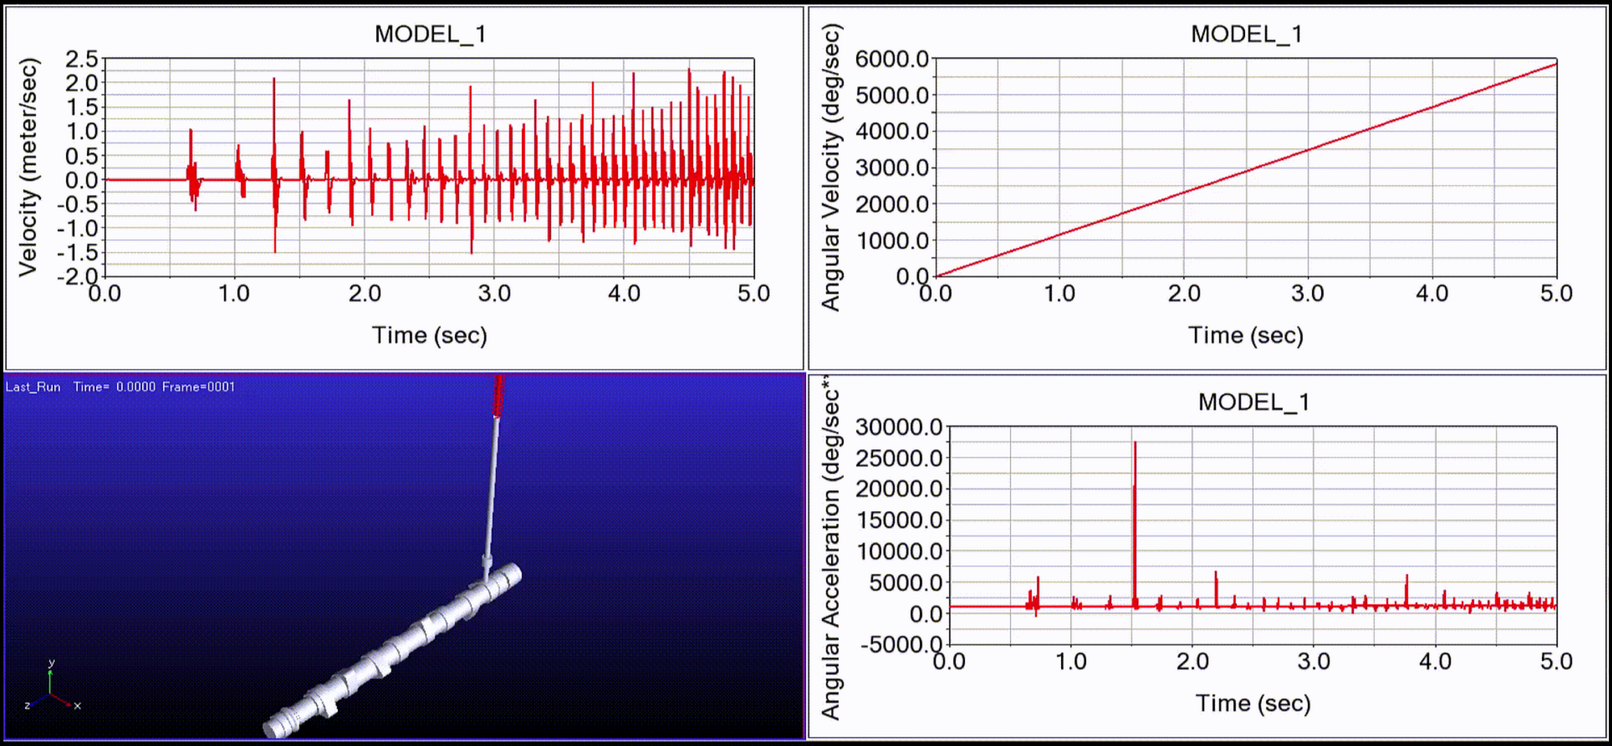
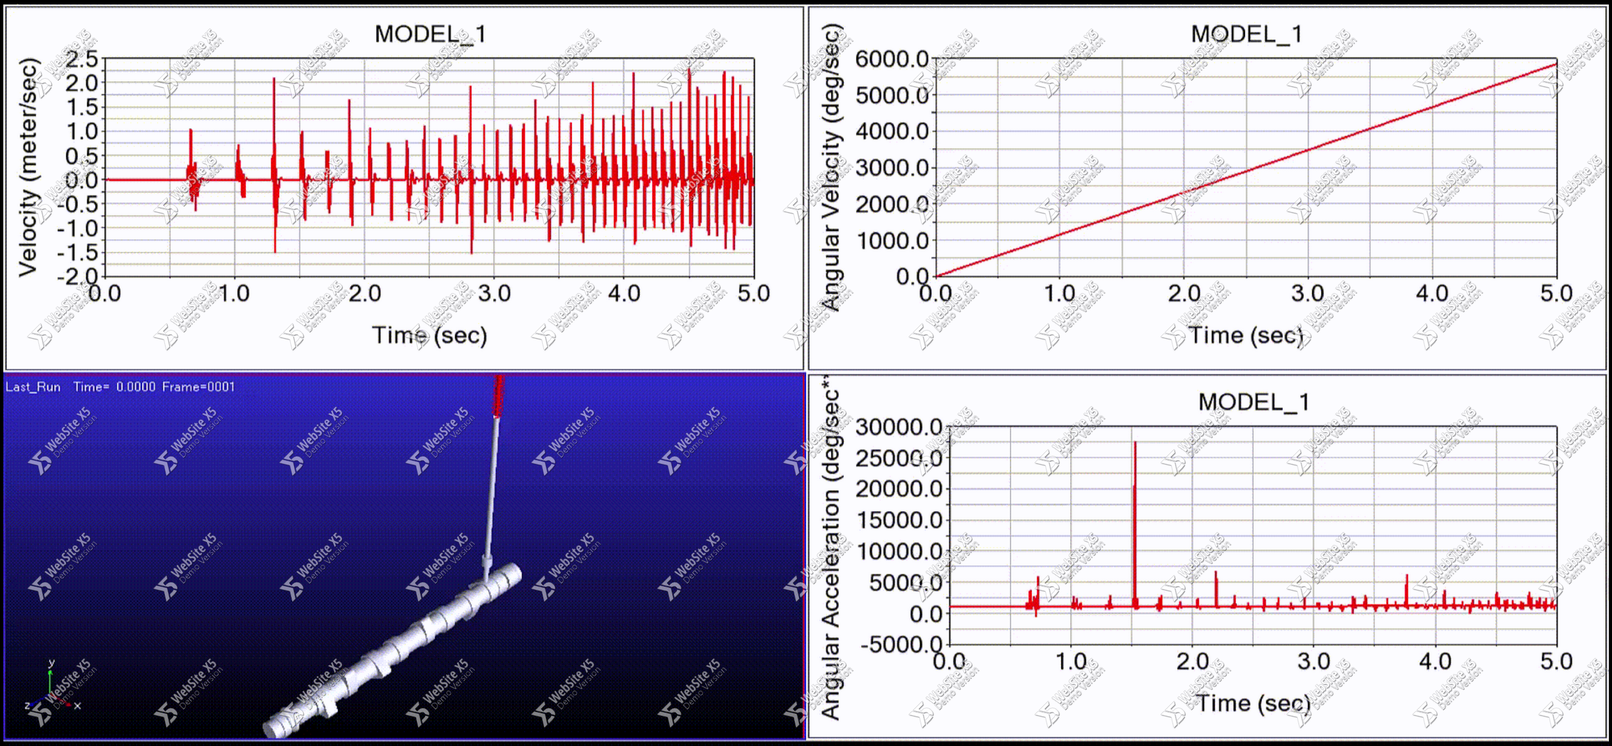
Version 3.4.1

diff --git a/index.html b/index.html
@@ -1,11 +1,11 @@
 <!DOCTYPE html><!-- HTML5 -->
 <html prefix="og: http://ogp.me/ns#" lang="en-GB" dir="ltr">
 	<head>
-		<title>Yassin Riyazi</title>
+		<title>Yassin Riyazi - WEBSITE X5 DEMO VERSION </title>
 		<meta charset="utf-8" />
 		<!--[if IE]><meta http-equiv="ImageToolbar" content="False" /><![endif]-->
 		<meta name="author" content="Yassin Riyazi" />
-		<meta name="generator" content="Incomedia WebSite X5 Professional 17.1.2 - www.websitex5.com" />
+		<meta name="generator" content="Incomedia WebSite X5 Professional 17.1.2 - UNREGISTERED VERSION - www.websitex5.com" />
 		<meta name="description" content="&lt;br /&gt;**Welcome to yRiyazi&#39;s World of Mechanical Engineering and Innovation**&lt;br /&gt;&lt;br /&gt;&lt;br /&gt;Greetings! I am Yassin Riayzi the first, a passionate mechanical engineer dedicated to pushing the boundaries of innovation and design. This website serves as a gateway to my world of interests and the projects that have captivated my attention and expertise.&lt;br /&gt;&lt;br /&gt;&lt;br /&gt;&lt;br /&gt;**Exploring the Intersection of Engineering and Creativity**&lt;br /&gt;&lt;br /&gt;&lt;br /&gt;Within these virtual walls, you&#39;ll find a curated selection of projects that showcase my journey through the realms of mechanical engineering. From precision machinery to groundbreaking prototypes, each endeavor represents a fusion of technical prowess and creative vision.&lt;br /&gt;&lt;br /&gt;&lt;br /&gt;**Unveiling My Mechanical Marvels**&lt;br /&gt;&lt;br /&gt;&lt;br /&gt;Dive into a collection of meticulously documented projects, each a testament to my dedication and ingenuity. Whether it&#39;s a cutting-edge automation system or an elegant piece of machinery, I invite you to explore the intricacies of my work, from concept to execution.&lt;br /&gt;&lt;br /&gt;&lt;br /&gt;&lt;br /&gt;**A Glimpse into My World Beyond Engineering**&lt;br /&gt;&lt;br /&gt;&lt;br /&gt;While my heart beats for mechanical marvels, this website also offers a window into my broader interests. From art and design to the latest technological trends, you&#39;ll find a medley of topics that fuel my curiosity and inspire my work.&lt;br /&gt;&lt;br /&gt;&lt;br /&gt;&lt;br /&gt;**Join Me on This Journey of Innovation**&lt;br /&gt;&lt;br /&gt;&lt;br /&gt;I invite you to embark on a journey through the fascinating world of mechanical engineering, where imagination meets precision. Feel free to reach out with questions, collaborations, or simply to share your thoughts.&lt;br /&gt;&lt;br /&gt;Thank you for visiting, and I look forward to sharing my passion with you!&lt;br /&gt;&lt;br /&gt;" />
 		<meta property="og:locale" content="en" />
 		<meta property="og:type" content="website" />
@@ -22,7 +22,7 @@
 		
 		
 		<link rel="stylesheet" href="pluginAppObj/imStickyBar_pluginAppObj_07/custom.css" media="screen, print" />
-		<link rel="stylesheet" href="pcss/index.css?17-1-2-0-638388897924035755" media="screen,print" />
+		<link rel="stylesheet" href="pcss/index.css?17-1-2-0-638388900411676286" media="screen,print" />
 		<script src="res/jquery.js?17-1-2-0"></script>
 		<script src="res/x5engine.js?17-1-2-0" data-files-version="17-1-2-0"></script>
 		<script src="pluginAppObj/imHeader_pluginAppObj_03/main.js"></script>
@@ -34,7 +34,7 @@
 			x5engine.utils.currentPagePath = 'index.html';
 			x5engine.boot.push(function () { x5engine.imPageToTop.initializeButton({}); });
 		</script>
-		<link rel="icon" href="favicon.ico?17-1-2-0-638388897920109389" type="image/vnd.microsoft.icon" />
+		<link rel="icon" href="favicon.ico?17-1-2-0-638388900405710278" type="image/vnd.microsoft.icon" />
 		<script>(function(i,s,o,g,r,a,m){i['GoogleAnalyticsObject']=r;i[r]=i[r]||function(){(i[r].q=i[r].q||[]).push(arguments)},i[r].l=1*new Date();a=s.createElement(o),m=s.getElementsByTagName(o)[0];a.async=1;a.src=g;m.parentNode.insertBefore(a,m)})(window,document,'script','//www.google-analytics.com/analytics.js','ga');ga('create', 'MDEY3JG7WE ','auto');ga('send', 'pageview');</script>
 	</head>
 	<body>
@@ -44,7 +44,7 @@
 				<div id="imFooterBg"></div>
 				<div id="imPage">
 					<header id="imHeader">
-						<h1 class="imHidden">Yassin Riyazi</h1>
+						<h1 class="imHidden">Yassin Riyazi - WEBSITE X5 DEMO VERSION </h1>
 						<div id="imHeaderObjects"><div id="imHeader_pluginAppObj_03_wrapper" class="template-object-wrapper"><div id="imHeader_pluginAppObj_03">
             <div id="soc_imHeader_pluginAppObj_03">
                 <div class="wrapper horizontal original grow">
@@ -130,7 +130,7 @@ $(function () {$('#imStickyBar_imMenuObject_03_container ul li').not('.imMnMnSep
 						<div id="imCell_4" class=""  data-responsive-sequence-number="1"> <div id="imCellStyleGraphics_4"></div><div id="imCellStyleBorders_4"></div><div id="imTextObject_04">
 							<div data-index="0"  class="text-tab-content grid-prop current-tab "  id="imTextObject_04_tab0" style="opacity: 1; ">
 								<div class="text-inner">
-									<div class="imHeading2">About My self</div><div class="imTAJustify"><span class="fs14lh1-5 ff1">I Yassin Riyazi As a <b>Mechanical engineer</b> with a passion for <b>robotics and artificial &nbsp;intelligence</b>, &nbsp;I thrive on designing innovative solutions that bridge the &nbsp;gap between &nbsp;cutting-edge technology and mechanical systems. My &nbsp;expertise lies in &nbsp;leveraging AI-driven automation to enhance robotics &nbsp;applications, &nbsp;creating efficient and intelligent machines that drive &nbsp;progress in &nbsp;diverse industries.</span></div><div class="imHeading3">Research Interest:</div>
+									<div class="imHeading2">About My self</div><div class="imTAJustify"><span class="fs14lh1-5 ff1">I Yassin Riyazi As a <b>Mechanical engineer</b> with a passion for <b>robotics and artificial &nb WebSite X5 Dem</b>o Version thrive on designing innovative solutions that bridge the &nbsp;gap between &nbsp;cutting-edg WebSite X5 Demo Version al systems. My &nbsp;expertise lies in &nbsp;leveraging AI-driven automation to enhan WebSite X5 Demo Version tions, &nbsp;creating efficient and intelligent machines that drive &nbsp;progr WebSite X5 Demo Version stries.</span></div><div class="imHeading3">Research Interest:</div>
 								</div>
 							</div>
 						
@@ -138,7 +138,7 @@ $(function () {$('#imStickyBar_imMenuObject_03_container ul li').not('.imMnMnSep
 						</div><div id="imCell_8" class=""  data-responsive-sequence-number="2"> <div id="imCellStyleGraphics_8"></div><div id="imCellStyleBorders_8"></div><div id="imTableObject_08">
 							<div data-index="0"  class="text-tab-content grid-prop current-tab "  id="imTableObject_08_tab0" style="opacity: 1; ">
 								<div class="text-inner">
-									<table data-minrequestedwidth="518" data-computedwidth="518" style="width: 518px;"><tbody><tr><td style="width: 227px; height: 38px; margin-top: 0px; margin-left: 0px;" class="imVc"><ul><li><span class="fs14lh1-5 ff1">Deep-Neural Networks</span></li></ul></td><td style="width: 276px; height: 38px; margin-top: 0px; margin-left: 0px;" class="imVc"><div><ul><li><span class="fs14lh1-5 ff1">Adaptive Control</span></li></ul></div></td></tr><tr><td style="height: 33px; width: 227px;" class="imVc"><div><ul><li><span class="fs14lh1-5 ff1">Data-driven methods</span></li></ul></div></td><td style="width: 276px; height: 33px; margin-top: 0px; margin-left: 0px;" class="imVc"><div><ul><li><span class="fs14lh1-5 ff1">Robotics</span></li></ul></div></td></tr><tr><td style="height: 35px; width: 227px;" class="imVc"><div><ul><li><span class="fs14lh1-5 ff1">Nonlinear Vibration</span></li></ul></div></td><td style="width: 276px; height: 35px; margin-top: 0px; margin-left: 0px;" class="imVc"><ul><li><span class="fs14lh1-5">Reinforcement </span>learning</li></ul></td></tr></tbody></table>
+									<table data-minrequestedwidth="518" data-computedwidth="518" style="width: 518px;"><tbody><tr><td style="width: 227px; height: 38px; margin-top: 0px; margin-left: 0px;" class="imVc"><ul><li><span class="fs14lh1-5 ff1">Deep-Neural Networks</span></li></ul></td><td style="width: 276px; height: 38px; margin-top: 0px; margin-left: 0px;" class="imVc"><div><ul><li><span class="fs14lh1-5 ff1">Adaptive Control</span></li></ul></div></td></tr><tr><td style="height: 33px; width: 227px;" class="imVc"><div><ul><li><span class="fs14lh1-5 ff1">Data-driven methods</span></li></ul></div></td><td style="width: 276px; height: 33px; margin-top: 0px; margin-left: 0px;" class="imVc"><div><ul><li><span class="fs14lh1-5 ff1">Robotics</span></li></ul></div></td></tr><tr><td style="height: 35px; width: 227px;" class="imVc"><div><ul><li><span class="fs14lh1-5 ff1">Nonlinear Vibrat We</span></li></ul></div></td><td style="width: 276px; height: 35px; margin-top: 0px; margin-left: 0px;" class="imVc"><ul><li><span class="fs14lh1-5">bSite X5 Demo </span>Version </li></ul></td></tr></tbody></table>
 								</div>
 							</div>
 						
@@ -167,7 +167,7 @@ $(function () {$('#imStickyBar_imMenuObject_03_container ul li').not('.imMnMnSep
 						<div id="imCell_12" class=""  data-responsive-sequence-number="5"> <div id="imCellStyleGraphics_12"></div><div id="imCellStyleBorders_12"></div><div id="imTextObject_12">
 							<div data-index="0"  class="text-tab-content grid-prop current-tab "  id="imTextObject_12_tab0" style="opacity: 1; ">
 								<div class="text-inner">
-									<div class="imHeading2"> &nbsp;&nbsp;&nbsp;&nbsp;&nbsp;&nbsp;Enhancing Duffing Oscillator Analysis: Koopman Operator and Deep Neural Networks for Parameter Estimation, Future Prediction, and Bifurcation Capture under Varying Frequency Excitation.</div><div><span class="fs14lh1-5 ff1"> Y.Riyazi, and <a href="https://me.ut.ac.ir/en/~arash.bahrami" target="_blank" class="imCssLink">A.Bahrami</a>* </span><span class="fs14lh1-5 ff1">{In preparation}</span></div><div class="imTARight"><span class="fs14lh1-5 ff1">[Abs] [Slides] [Code] &nbsp;&nbsp;&nbsp;&nbsp;&nbsp;&nbsp;</span></div>
+									<div class="imHeading2"> &nbsp;&nbsp;&nbsp;&nbsp;&nbsp;&nbsp;Enhancing Duffing Oscillator Analysis: Koopman Operator and Dee WebSite X5 Demo Version ameter Estimation, Future Prediction, and Bifurcation Capture under Varying Frequency Excit WebSi</div><div><span class="fs14lh1-5 ff1">te X5 Demo Vers<a href="https://me.ut.ac.ir/en/~arash.bahrami" target="_blank" class="imCssLink">ion hrami</a>* </span><span class="fs14lh1-5 ff1">{In preparation}</span></div><div class="imTARight"><span class="fs14lh1-5 ff1">[Abs] [Slides] [Code] &nbsp;&nbsp;&nbsp;&nbsp;&nbsp;&nbsp;</span></div>
 								</div>
 							</div>
 						
@@ -178,7 +178,7 @@ $(function () {$('#imStickyBar_imMenuObject_03_container ul li').not('.imMnMnSep
 						<div id="imCell_9" class=""  data-responsive-sequence-number="6"> <div id="imCellStyleGraphics_9"></div><div id="imCellStyleBorders_9"></div><div id="imTextObject_09">
 							<div data-index="0"  class="text-tab-content grid-prop current-tab "  id="imTextObject_09_tab0" style="opacity: 1; ">
 								<div class="text-inner">
-									<div class="imHeading2"> &nbsp;&nbsp;&nbsp;&nbsp;&nbsp;&nbsp;Leveraging Koopman operator and Deep Neural Networks for Parameter Estimation and Future Prediction of Cable soft robot</div><br><div><span class="fs14lh1-5 ff1">S.Abbasi, Y.Riyazi, G.Vossoughi*, and A.Bahrami* {In preparation }<br></span></div><div><div class="imTARight"><span class="fs14lh1-5 ff1">[Abs] [Slides] [</span><span class="fs14lh1-5 ff1">Code</span><span class="fs14lh1-5 ff1">]</span><span class="fs14lh1-5 ff1"> </span><span class="fs14lh1-5 ff1"> &nbsp;&nbsp;&nbsp;&nbsp;</span></div></div>
+									<div class="imHeading2"> &nbsp;&nbsp;&nbsp;&nbsp;&nbsp;&nbsp;Leveraging Koopman operator and Deep Neural Networks for Parame WebSite X5 Demo Version  Prediction of Cable soft robot</div><br><div><span class="fs14lh1-5 ff1">S.Abbasi, Y.Riyazi, G.Vossoughi*, and A.Bahrami* {In prepara WebSi<br></span></div><div><div class="imTARight"><span class="fs14lh1-5 ff1">te X5 Demo Versi</span><span class="fs14lh1-5 ff1">on e</span><span class="fs14lh1-5 ff1">]</span><span class="fs14lh1-5 ff1"> </span><span class="fs14lh1-5 ff1"> &nbsp;&nbsp;&nbsp;&nbsp;</span></div></div>
 								</div>
 							</div>
 						
@@ -208,7 +208,7 @@ $(function () {$('#imStickyBar_imMenuObject_03_container ul li').not('.imMnMnSep
 						<div id="imCell_10" class=""  data-responsive-sequence-number="9"> <div id="imCellStyleGraphics_10"></div><div id="imCellStyleBorders_10"></div><div id="imTextObject_10">
 							<div data-index="0"  class="text-tab-content grid-prop current-tab "  id="imTextObject_10_tab0" style="opacity: 1; ">
 								<div class="text-inner">
-									<div class="imHeading2"> &nbsp;&nbsp;&nbsp;&nbsp;&nbsp;&nbsp;&nbsp;4.Gearbox Fault Detection Using Continuous Wavelet Transform and Vision Transformer (ViT)</div><div><span class="fs14lh1-5 ff1"><a href="https://www.linkedin.com/in/ali-asadian98/" target="_blank" class="imCssLink">A. Asadian</a>, </span><span class="fs14lh1-5 ff1">Y.Riyazi, and </span><span class="fs14lh1-5 ff1"><a href="https://scholar.google.ca/citations?user=xTQ1t1MAAAAJ&hl=en" target="_blank" class="imCssLink">S. M. Ayati</a></span><span class="fs14lh1-5 ff1">* {Submitted - ICEE2024}</span></div><div class="imTARight"><span class="fs14lh1-5 ff1">[Abs] [Slides] [<a href="https://github.com/yriyazi/GearBox_Fault_detection-ICEE2024" target="_blank" class="imCssLink">Code</a>]</span><span class="fs14lh1-5 ff1"> </span><span class="fs14lh1-5 ff1"> &nbsp;&nbsp;&nbsp;&nbsp;&nbsp;</span></div>
+									<div class="imHeading2"> &nbsp;&nbsp;&nbsp;&nbsp;&nbsp;&nbsp;&nbsp;4.Gearbox Fault Detection Using Continuous Wavelet Transf WebSite X5 Demo Version r (ViT)</div><div><span class="fs14lh1-5 ff1"><a href="https://www.linkedin.com/in/ali-asadian98/" target="_blank" class="imCssLink">A. Asadian</a>, </span><span class="fs14lh1-5 ff1">Y.Riyazi, and </span><span class="fs14lh1-5 ff1"><a href="https://scholar.google.ca/citations?user=xTQ1t1MAAAAJ&hl=en" target="_blank" class="imCssLink">S. M. Ayati</a></span><span class="fs14lh1-5 ff1">* {Submitted - ICEE2024}</span></div><div class="imTARight"><span class="fs14lh1-5 ff1">[Abs] [Slides] [<a href="https://github.com/yriyazi/GearBox_Fault_detection-ICEE2024" target="_blank" class="imCssLink">Code</a>]</span><span class="fs14lh1-5 ff1"> </span><span class="fs14lh1-5 ff1">  WebSite X5 Demo Version nbsp;</span></div>
 								</div>
 							</div>
 						
@@ -216,7 +216,7 @@ $(function () {$('#imStickyBar_imMenuObject_03_container ul li').not('.imMnMnSep
 						</div><div id="imCell_13" class=""  data-responsive-sequence-number="10"> <div id="imCellStyleGraphics_13"></div><div id="imCellStyleBorders_13"></div><div id="imTextObject_13">
 							<div data-index="0"  class="text-tab-content grid-prop current-tab "  id="imTextObject_13_tab0" style="opacity: 1; ">
 								<div class="text-inner">
-									<div class="imHeading2"> &nbsp;&nbsp;&nbsp;&nbsp;&nbsp;&nbsp;3.High-Resolution Remote Sensing Image Captioning Based on Structured Attention and SAM Network</div><div><span class="fs14lh1-5 ff1"> Y.Riyazi, <a href="https://scholar.google.com/citations?user=Eaz5eDQAAAAJ&hl=en&oi=ao" target="_blank" class="imCssLink">S. M. Sadjadi</a>, <a href="https://scholar.google.com/citations?user=d1_WlCIAAAAJ&hl=en" onclick="return x5engine.imShowBox({ media:[{type: 'iframe', url: 'https://scholar.google.com/citations?user=d1_WlCIAAAAJ&hl=en', width: 1920, height: 1080, description: ''}]}, 0, this);" class="imCssLink">A. Zohrevand</a>, and <a href="https://scholar.google.com/citations?user=zqa4EY0AAAAJ&hl=en" onclick="return x5engine.imShowBox({ media:[{type: 'iframe', url: 'https://scholar.google.com/citations?user=zqa4EY0AAAAJ&hl=en', width: 1920, height: 1080, description: ''}]}, 0, this);" class="imCssLink">R. Hosseini</a>* {submitted <a href="https://iceeconf.ir/2024" target="_blank" class="imCssLink">ICEE2024</a>} &nbsp;</span><br></div><div class="imTARight"><span class="fs14lh1-5 ff1">[Abs] [Slides] [<a href="https://github.com/yriyazi/High-Resolution-Remote-Sensing-Image-Captioning-Based-on-Structured-Attention-ICEE2024" onclick="return x5engine.imShowBox({ media:[{type: 'iframe', url: 'https://github.com/yriyazi/High-Resolution-Remote-Sensing-Image-Captioning-Based-on-Structured-Attention-ICEE2024', width: 1920, height: 1080, description: ''}]}, 0, this);" class="imCssLink">Code</a>] &nbsp;&nbsp;&nbsp;&nbsp;&nbsp;&nbsp;</span></div>
+									<div class="imHeading2"> &nbsp;&nbsp;&nbsp;&nbsp;&nbsp;&nbsp;3.High-Resolution Remote Sensing Image Captioning Based on Stru WebSite X5 Demo Version Network</div><div><span class="fs14lh1-5 ff1"> Y.Riyazi, <a href="https://scholar.google.com/citations?user=Eaz5eDQAAAAJ&hl=en&oi=ao" target="_blank" class="imCssLink">S. M. Sadjadi</a>, <a href="https://scholar.google.com/citations?user=d1_WlCIAAAAJ&hl=en" onclick="return x5engine.imShowBox({ media:[{type: 'iframe', url: 'https://scholar.google.com/citations?user=d1_WlCIAAAAJ&hl=en', width: 1920, height: 1080, description: ''}]}, 0, this);" class="imCssLink">A. Zohrevand</a>, and <a href="https://scholar.google.com/citations?user=zqa4EY0AAAAJ&hl=en" onclick="return x5engine.imShowBox({ media:[{type: 'iframe', url: 'https://scholar.google.com/citations?user=zqa4EY0AAAAJ&hl=en', width: 1920, height: 1080, description: ''}]}, 0, this);" class="imCssLink">R. Hosseini</a>* {submitted <a href="https://iceeconf.ir/2024" target="_blank" class="imCssLink">ICEE2024</a>} &nbsp;</span><br></div><div class="imTARight"><span class="fs14lh1-5 ff1"> WebSite X5 Demo<a href="https://github.com/yriyazi/High-Resolution-Remote-Sensing-Image-Captioning-Based-on-Structured-Attention-ICEE2024" onclick="return x5engine.imShowBox({ media:[{type: 'iframe', url: 'https://github.com/yriyazi/High-Resolution-Remote-Sensing-Image-Captioning-Based-on-Structured-Attention-ICEE2024', width: 1920, height: 1080, description: ''}]}, 0, this);" class="imCssLink"> Ver</a>sion sp;&nbsp;&nbsp;&nbsp;&nbsp;&nbsp;</span></div>
 								</div>
 							</div>
 						
@@ -224,7 +224,7 @@ $(function () {$('#imStickyBar_imMenuObject_03_container ul li').not('.imMnMnSep
 						</div><div id="imCell_3" class=""  data-responsive-sequence-number="11"> <div id="imCellStyleGraphics_3"></div><div id="imCellStyleBorders_3"></div><div id="imTextObject_03">
 							<div data-index="0"  class="text-tab-content grid-prop current-tab "  id="imTextObject_03_tab0" style="opacity: 1; ">
 								<div class="text-inner">
-									<div class="imHeading2"> &nbsp;&nbsp;&nbsp;&nbsp;&nbsp;&nbsp;2.<a href="https://2023.isav.ir/article_9704.html" target="_blank" class="imCssLink">Enhanced Gearbox Fault Diagnosis with Fusion LSTM-CNN Network</a>.</div><div><span class="fs14lh1-5 ff1"><a href="https://www.linkedin.com/in/navidreza-ghanbari-079a91220/" target="_blank" class="imCssLink">N.Ghanbari</a>, Y.Riyazi, </span><span class="fs14lh1-5"><a href="https://scholar.google.com/citations?user=xq0kymMAAAAJ&hl=en" target="_blank" class="imCssLink"><span class="fs14lh1-5 ff1">F.A.Shirazi</span></a></span><span class="fs14lh1-5 ff1">* </span><span class="fs14lh1-5 ff1">and <a href="https://scholar.google.com/citations?user=m7xdmMgAAAAJ&hl=en" target="_blank" class="imCssLink">A. Kalhor</a>* {</span><span class="fs14lh1-5 ff1">submitted</span><span class="fs14lh1-5 ff1"> </span><span class="fs14lh1-5 ff1"><a href="https://2023.isav.ir/" target="_blank" class="imCssLink">ISAV2023</a></span><span class="fs14lh1-5 ff1">} &nbsp;</span></div><div class="imTARight"><span class="fs14lh1-5 ff1">[<a href="https://github.com/yriyazi/yriyazi/blob/main/Conference%20paper/ISAV2023-Enhanced%20Gearbox%20Fault%20Diagnosis%20with%20Fusion%20LSTM-CNN%20Network.pdf" target="_blank" class="imCssLink">Abs</a>] [<a href="https://github.com/yriyazi/yriyazi/blob/main/Conference%20paper/Presentation/Enhanced%20Gearbox%20Fault%20Diagnosis%20with%20Fusion%20LSTM-CNN%20Network.pdf" target="_blank" class="imCssLink">Slides</a>] [<a href="https://github.com/yriyazi/Enhanced-Gearbox-Fault-Diagnosis-with-Fusion-LSTM-CNN-Network-ISAV_2023" target="_blank" class="imCssLink">Code</a>]</span><span class="fs14lh1-5 ff1"> </span><span class="fs14lh1-5 ff1"> &nbsp;&nbsp;&nbsp;&nbsp;&nbsp;</span></div>
+									<div class="imHeading2"> &nbsp;&nbsp;&nbsp;&nbsp;&nbsp;&nbsp;2.<a href="https://2023.isav.ir/article_9704.html" target="_blank" class="imCssLink">Enhanced Gearbox Fault Diagnosis with Fusion LSTM-CNN Network</a> </div><div><span class="fs14lh1-5 ff1"><a href="https://www.linkedin.com/in/navidreza-ghanbari-079a91220/" target="_blank" class="imCssLink">WebSite X5</a> Demo Versio</span><span class="fs14lh1-5"><a href="https://scholar.google.com/citations?user=xq0kymMAAAAJ&hl=en" target="_blank" class="imCssLink"><span class="fs14lh1-5 ff1">n A.Shirazi</span></a></span><span class="fs14lh1-5 ff1">* </span><span class="fs14lh1-5 ff1">and <a href="https://scholar.google.com/citations?user=m7xdmMgAAAAJ&hl=en" target="_blank" class="imCssLink">A. Kalhor</a>* {</span><span class="fs14lh1-5 ff1">submitted</span><span class="fs14lh1-5 ff1"> </span><span class="fs14lh1-5 ff1"><a href="https://2023.isav.ir/" target="_blank" class="imCssLink">ISAV2023</a></span><span class="fs14lh1-5 ff1">} &nbsp;</span></div><div class="imTARight"><span class="fs14lh1-5 ff1">[<a href="https://github.com/yriyazi/yriyazi/blob/main/Conference%20paper/ISAV2023-Enhanced%20Gearbox%20Fault%20Diagnosis%20with%20Fusion%20LSTM-CNN%20Network.pdf" target="_blank" class="imCssLink">Abs</a>] [<a href="https://github.com/yriyazi/yriyazi/blob/main/Conference%20paper/Presentation/Enhanced%20Gearbox%20Fault%20Diagnosis%20with%20Fusion%20LSTM-CNN%20Network.pdf" target="_blank" class="imCssLink">Slides</a>] [<a href="https://github.com/yriyazi/Enhanced-Gearbox-Fault-Diagnosis-with-Fusion-LSTM-CNN-Network-ISAV_2023" target="_blank" class="imCssLink">Code</a>]</span><span class="fs14lh1-5 ff1"> </span><span class="fs14lh1-5 ff1"> &nbsp;&nbsp;&nbs WebSite X5 De</span></div>
 								</div>
 							</div>
 						
@@ -232,7 +232,7 @@ $(function () {$('#imStickyBar_imMenuObject_03_container ul li').not('.imMnMnSep
 						</div><div id="imCell_1" class=""  data-responsive-sequence-number="12"> <div id="imCellStyleGraphics_1"></div><div id="imCellStyleBorders_1"></div><div id="imTextObject_01">
 							<div data-index="0"  class="text-tab-content grid-prop current-tab "  id="imTextObject_01_tab0" style="opacity: 1; ">
 								<div class="text-inner">
-									<div class="imHeading2"> &nbsp;&nbsp;&nbsp;&nbsp;&nbsp;&nbsp;1.<a href="https://2023.isav.ir/article_9660" target="_blank" class="imCssLink">Leveraging Koopman operator and Deep Neural Networks for Parameter Estimation and Future Prediction of Duffing oscillators</a>.</div><div><span class="fs14lh1-5 ff1"> Y.Riyazi, <a href="https://www.linkedin.com/in/navidreza-ghanbari-079a91220/" target="_blank" class="imCssLink">N.Ghanbari</a>, and <a href="https://me.ut.ac.ir/en/~arash.bahrami" target="_blank" class="imCssLink">A.Bahrami</a>* {submitted <a href="https://2023.isav.ir" target="_blank" class="imCssLink">ISAV2023</a>} &nbsp;</span><br></div><div class="imTARight"><span class="fs14lh1-5 ff1">[<a href="https://github.com/yriyazi/yriyazi/blob/main/Conference%20paper/ISAV2023-Leveraging%20Koopman%20Operators%20and%20Deep%20Neural%20Networks%20for%20Parameter%20Estimation%20and%20Future%20Prediction%20of%20Duffing%20Oscillators.pdf" target="_blank" class="imCssLink">Abs</a>] [<a href="https://github.com/yriyazi/yriyazi/blob/main/Conference%20paper/Presentation/Leveraging%20Koopman%20operator%20and%20Deep%20Neural%20Net-works%20for%20Parameter%20Estimation%20and%20Future%20Prediction%20of%20Duffing%20oscillators.pdf" target="_blank" class="imCssLink">Slides</a>] [<a href="https://github.com/yriyazi/Koopman-Operator-and-Deep-Neural-Networks-ISAV2023" target="_blank" class="imCssLink">Code</a>] &nbsp;&nbsp;&nbsp;&nbsp;&nbsp;&nbsp;</span></div>
+									<div class="imHeading2"> &nbsp;&nbsp;&nbsp;&nbsp;&nbsp;&nbsp;1.<a href="https://2023.isav.ir/article_9660.html" target="_blank" class="imCssLink">Leveraging Koopman operator and Deep Neural Networks for Para WebSite X5 Demo Version re Prediction of Duffing oscillators</a>.</div><div><span class="fs14lh1-5 ff1"> Y.Riyazi, <a href="https://www.linkedin.com/in/navidreza-ghanbari-079a91220/" target="_blank" class="imCssLink">N.Ghanbari</a>, and <a href="https://me.ut.ac.ir/en/~arash.bahrami" target="_blank" class="imCssLink">A.Bahrami</a>* {submitted <a href="https://2023.isav.ir" target="_blank" class="imCssLink">ISAV20 W</a>ebSite X</span><br></div><div class="imTARight"><span class="fs14lh1-5 ff1">5<a href="https://github.com/yriyazi/yriyazi/blob/main/Conference%20paper/ISAV2023-Leveraging%20Koopman%20Operators%20and%20Deep%20Neural%20Networks%20for%20Parameter%20Estimation%20and%20Future%20Prediction%20of%20Duffing%20Oscillators.pdf" target="_blank" class="imCssLink"> De</a>mo <a href="https://github.com/yriyazi/yriyazi/blob/main/Conference%20paper/Presentation/Leveraging%20Koopman%20operator%20and%20Deep%20Neural%20Net-works%20for%20Parameter%20Estimation%20and%20Future%20Prediction%20of%20Duffing%20oscillators.pdf" target="_blank" class="imCssLink">Versio</a>n [<a href="https://github.com/yriyazi/Koopman-Operator-and-Deep-Neural-Networks-ISAV2023" target="_blank" class="imCssLink">Code</a>] &nbsp;&nbsp;&nbsp;&nbsp;&nbsp;&nbsp;</span></div>
 								</div>
 							</div>
 						
@@ -250,7 +250,7 @@ $(function () {$('#imStickyBar_imMenuObject_03_container ul li').not('.imMnMnSep
 							<div data-index="0"  class="text-tab-content grid-prop current-tab "  id="imTextObject_06_tab0" style="opacity: 1; ">
 								<div class="text-inner">
 									<div class="imHeading2">Selected Projects:</div><div>Hover your mouse over the area outside the gallery below to view the 
-						description. Feel free to click on the slides to open the corresponding 
+						description. WebSite X5 Demo Version e slides to open the corresponding 
 						GitHub repository.</div><div><br></div>
 								</div>
 							</div>

diff --git a/pcss/index.css b/pcss/index.css
@@ -1109,7 +1109,7 @@ max-height: 100%; position: absolute; top: 0; bottom: 0; left: 3px; margin: auto
 }
 
 @media (min-width: 1150px) {
-	#imHeader_pluginAppObj_03_wrapper { position: absolute; top: 0px; left: 920px; width: 191px; height: 45px; text-align: center; z-index: 1003;  }
+	#imHeader_pluginAppObj_03_wrapper { position: absolute; top: 0px; left: 920px; width: 191px; height: 45px; text-align: center; z-index: 1003; overflow: hidden; }
 	#imHeader_imCell_3 { padding-top: 0px; padding-bottom: 0px; padding-left: 0px; padding-right: 0px; }
 	#imHeader_imCell_3 { -ms-grid-rows: 100%; grid-template-rows: 100%; }
 	#imHeader_pluginAppObj_03 { padding-top: 0px; padding-bottom: 0px; padding-left: 0px; padding-right: 0px; }
@@ -1203,7 +1203,7 @@ max-height: 100%; position: absolute; top: 0; bottom: 0; left: 3px; margin: auto
 }
 
 @media (max-width: 1149px) and (min-width: 720px) {
-	#imHeader_pluginAppObj_03_wrapper { position: absolute; top: 0px; left: 540px; width: 172px; height: 57px; text-align: center; z-index: 1002;  }
+	#imHeader_pluginAppObj_03_wrapper { position: absolute; top: 0px; left: 540px; width: 172px; height: 57px; text-align: center; z-index: 1002; overflow: hidden; }
 	#imHeader_imCell_3 { padding-top: 0px; padding-bottom: 0px; padding-left: 0px; padding-right: 0px; }
 	#imHeader_imCell_3 { -ms-grid-rows: 100%; grid-template-rows: 100%; }
 	#imHeader_pluginAppObj_03 { padding-top: 0px; padding-bottom: 0px; padding-left: 0px; padding-right: 0px; }
@@ -1297,7 +1297,7 @@ max-height: 100%; position: absolute; top: 0; bottom: 0; left: 3px; margin: auto
 }
 
 @media (max-width: 719px) and (min-width: 480px) {
-	#imHeader_pluginAppObj_03_wrapper { position: absolute; top: 0px; left: 300px; width: 174px; height: 48px; text-align: center; z-index: 1002;  }
+	#imHeader_pluginAppObj_03_wrapper { position: absolute; top: 0px; left: 300px; width: 174px; height: 48px; text-align: center; z-index: 1002; overflow: hidden; }
 	#imHeader_imCell_3 { padding-top: 0px; padding-bottom: 0px; padding-left: 0px; padding-right: 0px; }
 	#imHeader_imCell_3 { -ms-grid-rows: 100%; grid-template-rows: 100%; }
 	#imHeader_pluginAppObj_03 { padding-top: 0px; padding-bottom: 0px; padding-left: 0px; padding-right: 0px; }
@@ -1391,7 +1391,7 @@ max-height: 100%; position: absolute; top: 0; bottom: 0; left: 3px; margin: auto
 }
 
 @media (max-width: 479px)  {
-	#imHeader_pluginAppObj_03_wrapper { position: absolute; top: 0px; left: 150px; width: 163px; height: 49px; text-align: center; z-index: 1002;  }
+	#imHeader_pluginAppObj_03_wrapper { position: absolute; top: 0px; left: 150px; width: 163px; height: 49px; text-align: center; z-index: 1002; overflow: hidden; }
 	#imHeader_imCell_3 { padding-top: 0px; padding-bottom: 0px; padding-left: 0px; padding-right: 0px; }
 	#imHeader_pluginAppObj_03 { padding-top: 0px; padding-bottom: 0px; padding-left: 0px; padding-right: 0px; }
 	#imHeader_imCell_3 { -ms-grid-rows: 100%; grid-template-rows: 100%; }
@@ -1567,7 +1567,7 @@ max-height: 100%; position: absolute; top: 0; bottom: 0; left: 3px; margin: auto
 	}
 	#imStickyBar_imMenuObject_03-menu-opened { display: none; }
 	#imStickyBar_imMenuObject_03 .hamburger-component { display: none; }
-	#imStickyBar_pluginAppObj_07_wrapper { position: absolute; top: 0px; left: 990px; width: 160px; height: 50px; text-align: center; z-index: 1003;  }
+	#imStickyBar_pluginAppObj_07_wrapper { position: absolute; top: 0px; left: 990px; width: 160px; height: 50px; text-align: center; z-index: 1003; overflow: hidden; }
 	#imStickyBar_imCell_7 { padding-top: 0px; padding-bottom: 0px; padding-left: 0px; padding-right: 0px; }
 	#imStickyBar_imCell_7 { -ms-grid-rows: 100%; grid-template-rows: 100%; }
 	#imStickyBar_pluginAppObj_07 { padding-top: 0px; padding-bottom: 0px; padding-left: 0px; padding-right: 0px; }
@@ -1661,7 +1661,7 @@ max-height: 100%; position: absolute; top: 0; bottom: 0; left: 3px; margin: auto
 	}
 	#imStickyBar_imMenuObject_03-menu-opened { display: none; }
 	#imStickyBar_imMenuObject_03 .hamburger-component { display: none; }
-	#imStickyBar_pluginAppObj_07_wrapper { position: absolute; top: 0px; left: 560px; width: 160px; height: 50px; text-align: center; z-index: 1003;  }
+	#imStickyBar_pluginAppObj_07_wrapper { position: absolute; top: 0px; left: 560px; width: 160px; height: 50px; text-align: center; z-index: 1003; overflow: hidden; }
 	#imStickyBar_imCell_7 { padding-top: 0px; padding-bottom: 0px; padding-left: 0px; padding-right: 0px; }
 	#imStickyBar_imCell_7 { -ms-grid-rows: 100%; grid-template-rows: 100%; }
 	#imStickyBar_pluginAppObj_07 { padding-top: 0px; padding-bottom: 0px; padding-left: 0px; padding-right: 0px; }
@@ -1755,7 +1755,7 @@ max-height: 100%; position: absolute; top: 0; bottom: 0; left: 3px; margin: auto
 	}
 	#imStickyBar_imMenuObject_03-menu-opened { display: none; }
 	#imStickyBar_imMenuObject_03 .hamburger-component { display: none; }
-	#imStickyBar_pluginAppObj_07_wrapper { position: absolute; top: 0px; left: 320px; width: 160px; height: 50px; text-align: center; z-index: 1003;  }
+	#imStickyBar_pluginAppObj_07_wrapper { position: absolute; top: 0px; left: 320px; width: 160px; height: 50px; text-align: center; z-index: 1003; overflow: hidden; }
 	#imStickyBar_imCell_7 { padding-top: 0px; padding-bottom: 0px; padding-left: 0px; padding-right: 0px; }
 	#imStickyBar_imCell_7 { -ms-grid-rows: 100%; grid-template-rows: 100%; }
 	#imStickyBar_pluginAppObj_07 { padding-top: 0px; padding-bottom: 0px; padding-left: 0px; padding-right: 0px; }
@@ -1848,7 +1848,7 @@ max-height: 100%; position: absolute; top: 0; bottom: 0; left: 3px; margin: auto
 	}
 	#imStickyBar_imMenuObject_03-menu-opened { display: none; }
 	#imStickyBar_imMenuObject_03 .hamburger-component { display: none; }
-	#imStickyBar_pluginAppObj_07_wrapper { position: absolute; top: 0px; left: 160px; width: 160px; height: 50px; text-align: center; z-index: 1003;  }
+	#imStickyBar_pluginAppObj_07_wrapper { position: absolute; top: 0px; left: 160px; width: 160px; height: 50px; text-align: center; z-index: 1003; overflow: hidden; }
 	#imStickyBar_imCell_7 { padding-top: 0px; padding-bottom: 0px; padding-left: 0px; padding-right: 0px; }
 	#imStickyBar_pluginAppObj_07 { padding-top: 0px; padding-bottom: 0px; padding-left: 0px; padding-right: 0px; }
 	#imStickyBar_imCell_7 { -ms-grid-rows: 100%; grid-template-rows: 100%; }

diff --git a/pcss/imsearch.css b/pcss/imsearch.css
@@ -165,7 +165,7 @@ max-height: 100%; position: absolute; top: 0; bottom: 0; left: 3px; margin: auto
 }
 
 @media (min-width: 1150px) {
-	#imHeader_pluginAppObj_03_wrapper { position: absolute; top: 0px; left: 920px; width: 191px; height: 45px; text-align: center; z-index: 1003;  }
+	#imHeader_pluginAppObj_03_wrapper { position: absolute; top: 0px; left: 920px; width: 191px; height: 45px; text-align: center; z-index: 1003; overflow: hidden; }
 	#imHeader_imCell_3 { padding-top: 0px; padding-bottom: 0px; padding-left: 0px; padding-right: 0px; }
 	#imHeader_imCell_3 { -ms-grid-rows: 100%; grid-template-rows: 100%; }
 	#imHeader_pluginAppObj_03 { padding-top: 0px; padding-bottom: 0px; padding-left: 0px; padding-right: 0px; }
@@ -259,7 +259,7 @@ max-height: 100%; position: absolute; top: 0; bottom: 0; left: 3px; margin: auto
 }
 
 @media (max-width: 1149px) and (min-width: 720px) {
-	#imHeader_pluginAppObj_03_wrapper { position: absolute; top: 0px; left: 540px; width: 172px; height: 57px; text-align: center; z-index: 1002;  }
+	#imHeader_pluginAppObj_03_wrapper { position: absolute; top: 0px; left: 540px; width: 172px; height: 57px; text-align: center; z-index: 1002; overflow: hidden; }
 	#imHeader_imCell_3 { padding-top: 0px; padding-bottom: 0px; padding-left: 0px; padding-right: 0px; }
 	#imHeader_imCell_3 { -ms-grid-rows: 100%; grid-template-rows: 100%; }
 	#imHeader_pluginAppObj_03 { padding-top: 0px; padding-bottom: 0px; padding-left: 0px; padding-right: 0px; }
@@ -353,7 +353,7 @@ max-height: 100%; position: absolute; top: 0; bottom: 0; left: 3px; margin: auto
 }
 
 @media (max-width: 719px) and (min-width: 480px) {
-	#imHeader_pluginAppObj_03_wrapper { position: absolute; top: 0px; left: 300px; width: 174px; height: 48px; text-align: center; z-index: 1002;  }
+	#imHeader_pluginAppObj_03_wrapper { position: absolute; top: 0px; left: 300px; width: 174px; height: 48px; text-align: center; z-index: 1002; overflow: hidden; }
 	#imHeader_imCell_3 { padding-top: 0px; padding-bottom: 0px; padding-left: 0px; padding-right: 0px; }
 	#imHeader_imCell_3 { -ms-grid-rows: 100%; grid-template-rows: 100%; }
 	#imHeader_pluginAppObj_03 { padding-top: 0px; padding-bottom: 0px; padding-left: 0px; padding-right: 0px; }
@@ -447,7 +447,7 @@ max-height: 100%; position: absolute; top: 0; bottom: 0; left: 3px; margin: auto
 }
 
 @media (max-width: 479px)  {
-	#imHeader_pluginAppObj_03_wrapper { position: absolute; top: 0px; left: 150px; width: 163px; height: 49px; text-align: center; z-index: 1002;  }
+	#imHeader_pluginAppObj_03_wrapper { position: absolute; top: 0px; left: 150px; width: 163px; height: 49px; text-align: center; z-index: 1002; overflow: hidden; }
 	#imHeader_imCell_3 { padding-top: 0px; padding-bottom: 0px; padding-left: 0px; padding-right: 0px; }
 	#imHeader_pluginAppObj_03 { padding-top: 0px; padding-bottom: 0px; padding-left: 0px; padding-right: 0px; }
 	#imHeader_imCell_3 { -ms-grid-rows: 100%; grid-template-rows: 100%; }
@@ -623,7 +623,7 @@ max-height: 100%; position: absolute; top: 0; bottom: 0; left: 3px; margin: auto
 	}
 	#imStickyBar_imMenuObject_03-menu-opened { display: none; }
 	#imStickyBar_imMenuObject_03 .hamburger-component { display: none; }
-	#imStickyBar_pluginAppObj_07_wrapper { position: absolute; top: 0px; left: 990px; width: 160px; height: 50px; text-align: center; z-index: 1003;  }
+	#imStickyBar_pluginAppObj_07_wrapper { position: absolute; top: 0px; left: 990px; width: 160px; height: 50px; text-align: center; z-index: 1003; overflow: hidden; }
 	#imStickyBar_imCell_7 { padding-top: 0px; padding-bottom: 0px; padding-left: 0px; padding-right: 0px; }
 	#imStickyBar_imCell_7 { -ms-grid-rows: 100%; grid-template-rows: 100%; }
 	#imStickyBar_pluginAppObj_07 { padding-top: 0px; padding-bottom: 0px; padding-left: 0px; padding-right: 0px; }
@@ -717,7 +717,7 @@ max-height: 100%; position: absolute; top: 0; bottom: 0; left: 3px; margin: auto
 	}
 	#imStickyBar_imMenuObject_03-menu-opened { display: none; }
 	#imStickyBar_imMenuObject_03 .hamburger-component { display: none; }
-	#imStickyBar_pluginAppObj_07_wrapper { position: absolute; top: 0px; left: 560px; width: 160px; height: 50px; text-align: center; z-index: 1003;  }
+	#imStickyBar_pluginAppObj_07_wrapper { position: absolute; top: 0px; left: 560px; width: 160px; height: 50px; text-align: center; z-index: 1003; overflow: hidden; }
 	#imStickyBar_imCell_7 { padding-top: 0px; padding-bottom: 0px; padding-left: 0px; padding-right: 0px; }
 	#imStickyBar_imCell_7 { -ms-grid-rows: 100%; grid-template-rows: 100%; }
 	#imStickyBar_pluginAppObj_07 { padding-top: 0px; padding-bottom: 0px; padding-left: 0px; padding-right: 0px; }
@@ -811,7 +811,7 @@ max-height: 100%; position: absolute; top: 0; bottom: 0; left: 3px; margin: auto
 	}
 	#imStickyBar_imMenuObject_03-menu-opened { display: none; }
 	#imStickyBar_imMenuObject_03 .hamburger-component { display: none; }
-	#imStickyBar_pluginAppObj_07_wrapper { position: absolute; top: 0px; left: 320px; width: 160px; height: 50px; text-align: center; z-index: 1003;  }
+	#imStickyBar_pluginAppObj_07_wrapper { position: absolute; top: 0px; left: 320px; width: 160px; height: 50px; text-align: center; z-index: 1003; overflow: hidden; }
 	#imStickyBar_imCell_7 { padding-top: 0px; padding-bottom: 0px; padding-left: 0px; padding-right: 0px; }
 	#imStickyBar_imCell_7 { -ms-grid-rows: 100%; grid-template-rows: 100%; }
 	#imStickyBar_pluginAppObj_07 { padding-top: 0px; padding-bottom: 0px; padding-left: 0px; padding-right: 0px; }
@@ -904,7 +904,7 @@ max-height: 100%; position: absolute; top: 0; bottom: 0; left: 3px; margin: auto
 	}
 	#imStickyBar_imMenuObject_03-menu-opened { display: none; }
 	#imStickyBar_imMenuObject_03 .hamburger-component { display: none; }
-	#imStickyBar_pluginAppObj_07_wrapper { position: absolute; top: 0px; left: 160px; width: 160px; height: 50px; text-align: center; z-index: 1003;  }
+	#imStickyBar_pluginAppObj_07_wrapper { position: absolute; top: 0px; left: 160px; width: 160px; height: 50px; text-align: center; z-index: 1003; overflow: hidden; }
 	#imStickyBar_imCell_7 { padding-top: 0px; padding-bottom: 0px; padding-left: 0px; padding-right: 0px; }
 	#imStickyBar_pluginAppObj_07 { padding-top: 0px; padding-bottom: 0px; padding-left: 0px; padding-right: 0px; }
 	#imStickyBar_imCell_7 { -ms-grid-rows: 100%; grid-template-rows: 100%; }

diff --git a/res/x5settings.php b/res/x5settings.php
@@ -116,7 +116,7 @@ $imSettings['dynamicobjects'] = array(
 
 $ImMailer->emailType = 'phpmailer';
 $ImMailer->exposeWsx5 = true;
-$ImMailer->header = '<!DOCTYPE HTML PUBLIC "-//W3C//DTD HTML 4.01 Transitional//EN">' . "\n" . '<html>' . "\n" . '<head>' . "\n" . '<meta http-equiv="content-type" content="text/html; charset=utf-8">' . "\n" . '<meta name="generator" content="Incomedia WebSite X5 Professional 17.1.2 - www.websitex5.com">' . "\n" . '</head>' . "\n" . '<body bgcolor="#3F3E3E" style="background-color: #3F3E3E;">' . "\n\t" . '<table border="0" cellpadding="0" align="center" cellspacing="0" style="padding: 0; margin: 0 auto; width: 700px;">' . "\n\t" . '<tr><td id="imEmailContent" style="min-height: 300px; padding: 10px; font: normal normal normal 9pt \'Raleway\'; color: #000000; background-color: #FFFFFF; text-align: left; text-decoration: none;  width: 700px;border-style: solid; border-color: #808080; border-top-width: 1px; border-right-width: 1px; border-bottom-width: 1px; border-left-width: 1px;background-color: #FFFFFF" width="700px">' . "\n\t\t";
+$ImMailer->header = '<!DOCTYPE HTML PUBLIC "-//W3C//DTD HTML 4.01 Transitional//EN">' . "\n" . '<html>' . "\n" . '<head>' . "\n" . '<meta http-equiv="content-type" content="text/html; charset=utf-8">' . "\n" . '<meta name="generator" content="Incomedia WebSite X5 Professional 17.1.2 - UNREGISTERED VERSION - www.websitex5.com">' . "\n" . '</head>' . "\n" . '<body bgcolor="#3F3E3E" style="background-color: #3F3E3E;">' . "\n\t" . '<table border="0" cellpadding="0" align="center" cellspacing="0" style="padding: 0; margin: 0 auto; width: 700px;">' . "\n\t" . '<tr><td id="imEmailContent" style="min-height: 300px; padding: 10px; font: normal normal normal 9pt \'Raleway\'; color: #000000; background-color: #FFFFFF; text-align: left; text-decoration: none;  width: 700px;border-style: solid; border-color: #808080; border-top-width: 1px; border-right-width: 1px; border-bottom-width: 1px; border-left-width: 1px;background-color: #FFFFFF" width="700px">' . "\n\t\t";
 $ImMailer->footer = "\n\t" . '</td></tr>' . "\n\t" . '</table>' . "\n" . '<table width="100%"><tr><td id="imEmailFooter" style="font: normal normal normal 7pt \'Raleway\'; color: #FFFFFF; background-color: transparent; text-align: center; text-decoration: none;  padding: 10px; margin-top: 5px;background-color: transparent">' . "\n\t\t" . 'This e-mail contains information that is intended solely for the above mentioned addressee.<br>If you have received this e-mail by error, please notify the sender immediately and destroy it, without copying it.' . "\n\t" . '</td></tr></table>' . "\n\t" . '</body>' . "\n" . '</html>';
 $ImMailer->bodyBackground = '#FFFFFF';
 $ImMailer->bodyBackgroundEven = '#FFFFFF';

diff --git a/imsearch.php b/imsearch.php
@@ -2,11 +2,11 @@
 <!DOCTYPE html><!-- HTML5 -->
 <html prefix="og: http://ogp.me/ns#" lang="en-GB" dir="ltr">
 	<head>
-		<title>Search - Yassin Riyazi</title>
+		<title>Search - Yassin Riyazi - WEBSITE X5 DEMO VERSION </title>
 		<meta charset="utf-8" />
 		<!--[if IE]><meta http-equiv="ImageToolbar" content="False" /><![endif]-->
 		<meta name="author" content="Yassin Riyazi" />
-		<meta name="generator" content="Incomedia WebSite X5 Professional 17.1.2 - www.websitex5.com" />
+		<meta name="generator" content="Incomedia WebSite X5 Professional 17.1.2 - UNREGISTERED VERSION - www.websitex5.com" />
 		<meta property="og:locale" content="en" />
 		<meta property="og:type" content="website" />
 		<meta property="og:url" content="https://yriyazi.github.io/imsearch.php" />
@@ -22,7 +22,7 @@
 		
 		
 		<link rel="stylesheet" href="pluginAppObj/imStickyBar_pluginAppObj_07/custom.css" media="screen, print" />
-		<link rel="stylesheet" href="pcss/imsearch.css?17-1-2-0-638388889087809362" media="screen,print" />
+		<link rel="stylesheet" href="pcss/imsearch.css?17-1-2-0-638388899939654809" media="screen,print" />
 		<script src="res/jquery.js?17-1-2-0"></script>
 		<script src="res/x5engine.js?17-1-2-0" data-files-version="17-1-2-0"></script>
 		<script src="pluginAppObj/imHeader_pluginAppObj_03/main.js"></script>
@@ -34,7 +34,7 @@
 			x5engine.utils.currentPagePath = 'imsearch.php';
 			x5engine.boot.push(function () { x5engine.imPageToTop.initializeButton({}); });
 		</script>
-		<link rel="icon" href="favicon.ico?17-1-2-0-638388889087809362" type="image/vnd.microsoft.icon" />
+		<link rel="icon" href="favicon.ico?17-1-2-0-638388899939498143" type="image/vnd.microsoft.icon" />
 		<script>(function(i,s,o,g,r,a,m){i['GoogleAnalyticsObject']=r;i[r]=i[r]||function(){(i[r].q=i[r].q||[]).push(arguments)},i[r].l=1*new Date();a=s.createElement(o),m=s.getElementsByTagName(o)[0];a.async=1;a.src=g;m.parentNode.insertBefore(a,m)})(window,document,'script','//www.google-analytics.com/analytics.js','ga');ga('create', 'MDEY3JG7WE ','auto');ga('send', 'pageview');</script>
 	</head>
 	<body>
@@ -44,7 +44,7 @@
 				<div id="imFooterBg"></div>
 				<div id="imPage">
 					<header id="imHeader">
-						<h1 class="imHidden">Search - Yassin Riyazi</h1>
+						<h1 class="imHidden">Search - Yassin Riyazi - WEBSITE X5 DEMO VERSION </h1>
 						<div id="imHeaderObjects"><div id="imHeader_pluginAppObj_03_wrapper" class="template-object-wrapper"><div id="imHeader_pluginAppObj_03">
             <div id="soc_imHeader_pluginAppObj_03">
                 <div class="wrapper horizontal original grow">

diff --git a/captcha/x5captcha.php b/captcha/x5captcha.php
@@ -1,7 +1,7 @@
 <?php
 include("../res/x5engine.php");
-$nameList = array("s8w","zeg","dtc","ye7","lxm","xyt","w7y","prv","fm3","tnx");
-$charList = array("L","U","J","Y","3","J","M","2","F","S");
+$nameList = array("ges","e2m","duw","ajz","2u4","g43","v2t","y7p","jeh","wca");
+$charList = array("K","L","F","5","S","L","6","2","W","K");
 $cpt = new X5Captcha($nameList, $charList);
 //Check Captcha
 if ($_GET["action"] == "check")
